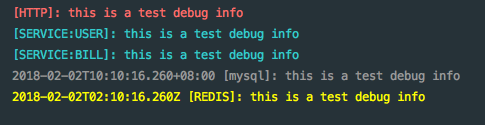
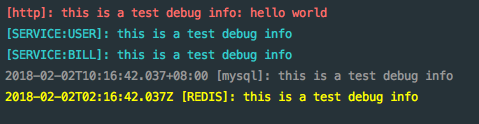
这个人很懒, 往代码库丢了一只战斗力10930的皮卡丘.

diff --git a/example/example.go b/example/example.go
@@ -9,7 +9,7 @@ func main() {
 	// show all: DEBUG=*
 	// show service only: DEBUG=service:*
 	// show http and redis: DEBUG=http,redis
-	debug.Debug("http", debug.UpperCase).Println("this is a test debug info")
+	debug.Debug("http").Printf("this is a test debug info: %s\n", "hello world")
 	debug.Debug("service:user", debug.UpperCase).Println("this is a test debug info")
 	debug.Debug("service:bill", debug.UpperCase).Println("this is a test debug info")
 	debug.Debug("mysql", debug.TimeLocal).Println("this is a test debug info")

diff --git a/README.md b/README.md
@@ -22,7 +22,7 @@ func main() {
 	// show all: DEBUG=*
 	// show service only: DEBUG=service:*
 	// show http and redis: DEBUG=http,redis
-	debug.Debug("http", debug.UpperCase).Println("this is a test debug info")
+	debug.Debug("http").Printf("this is a test debug info: %s\n", "hello world")
 	debug.Debug("service:user", debug.UpperCase).Println("this is a test debug info")
 	debug.Debug("service:bill", debug.UpperCase).Println("this is a test debug info")
 	debug.Debug("mysql", debug.TimeLocal).Println("this is a test debug info")
